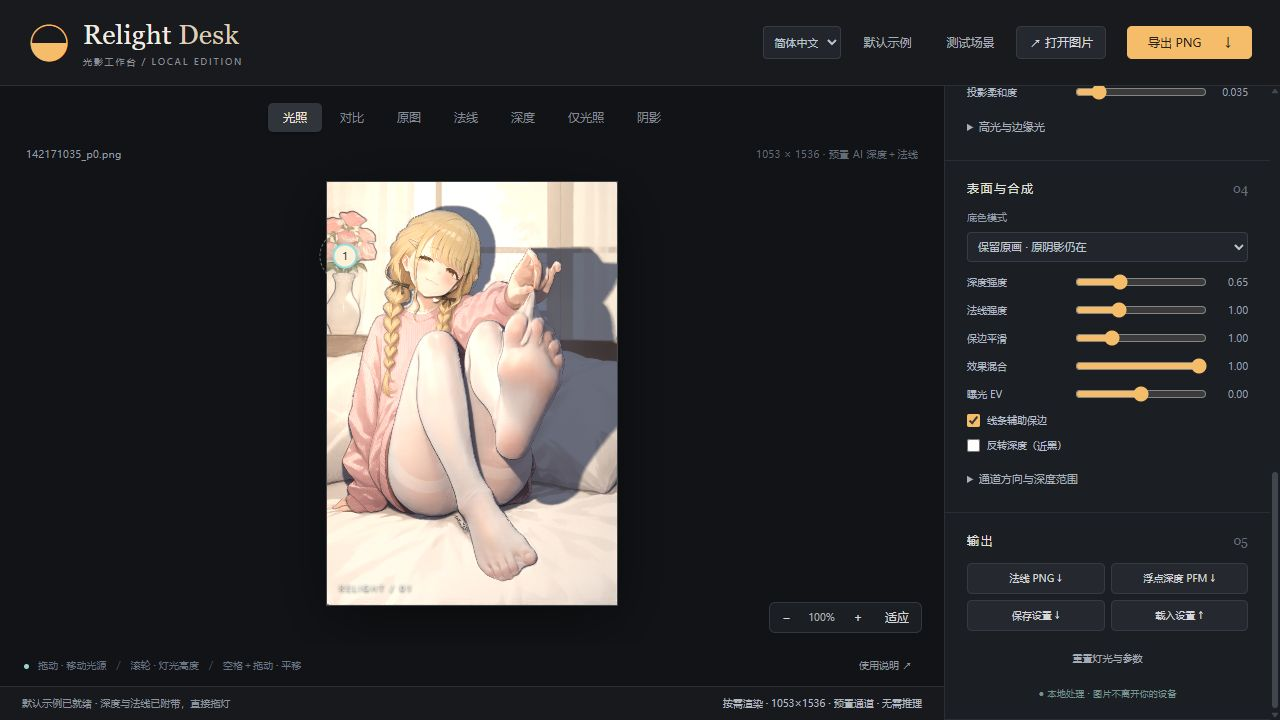
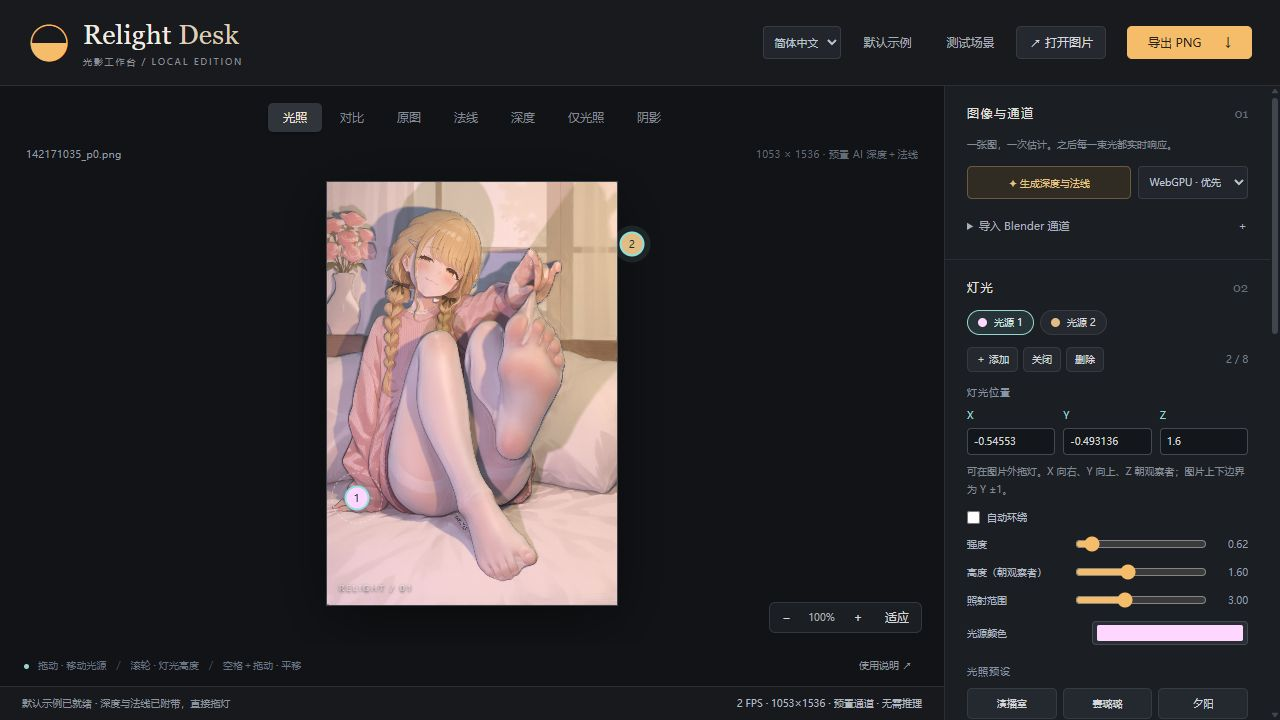
Use owner-tuned dual lights as the illustration defaults

diff --git a/src/main.ts b/src/main.ts
@@ -1,7 +1,7 @@
 import { t, bindStatic, localizedText, getLocale, setLocale, onLocaleChange, lightName, type Locale } from './i18n';
 import './style.css';
 import { createDemo } from './demo';
-import { loadExample } from './example';
+import { loadExample, exampleSettings } from './example';
 import { RelightRenderer } from './renderer';
 import { defaults, makeLight, type Channels, type Light, type Settings, type View } from './types';
 import { clamp, normalizeDepth, lightPositionFromUV } from './math';
@@ -168,7 +168,11 @@ $('add-light').onclick = () => { if (lights.length >= 8) return;selected = Math.
 $('delete-light').onclick = () => { if (lights.length <= 1) return;lights = lights.filter(l => l.id !== selected);selected = lights[0].id;change();sync(); };
 $('toggle-light').onclick = () => { selectedLight().enabled = !selectedLight().enabled;change();sync(); };
 $<HTMLInputElement>('animate').onchange = e => { animate = (e.target as HTMLInputElement).checked;change(); };
-$('reset').onclick = () => { settings = defaults();if (channels.source === 'pending') settings.view = 'original';lights = [makeLight(1)];selected = 1;animate = false;change(true);sync(); };
+$('reset').onclick = () => {
+  const initial = channels.source === 'bundled' ? exampleSettings() : { settings: defaults(), lights: [makeLight(1)] };
+  settings = initial.settings;lights = initial.lights;if (channels.source === 'pending') settings.view = 'original';
+  selected = lights[0].id;animate = false;change(true);sync();
+};
 $('zoom-in').onclick = () => { zoom = Math.min(4, zoom * 1.2);fit(); };$('zoom-out').onclick = () => { zoom = Math.max(.25, zoom / 1.2);fit(); };$('fit').onclick = () => { zoom = 1;pan = { x: 0, y: 0 };fit(); };
 document.addEventListener('keydown', e => { if (e.code === 'Space' && !['INPUT','SELECT','TEXTAREA','BUTTON'].includes((e.target as HTMLElement).tagName)) { space = true;e.preventDefault(); } });
 document.addEventListener('keyup', e => { if (e.code === 'Space') space = false; });
@@ -205,7 +209,7 @@ async function openExample() {
   status(() => t('正在加载默认示例与预置通道…'));
   try {
     const next = await loadExample(controller.signal);if (request !== jobId) return;
-    settings=defaults();lights=[makeLight(1)];selected=1;animate=false;backendLabel=()=>t('预置通道 · 无需推理');
+    const initial=exampleSettings();settings=initial.settings;lights=initial.lights;selected=lights[0].id;animate=false;backendLabel=()=>t('预置通道 · 无需推理');
     loadChannels(next);status(() => t('默认示例已就绪 · 深度与法线已附带，直接拖灯'));
   } catch(error) {
     if (request !== jobId || controller.signal.aborted) return;

diff --git a/tests/example.test.ts b/tests/example.test.ts
@@ -2,12 +2,27 @@ import { describe, it, expect } from 'vitest';
 import { readFileSync } from 'node:fs';
 import { createHash } from 'node:crypto';
 import { RawImage } from '@huggingface/transformers';
-import { decodeExampleDepth, useBakedNormal } from '../src/example';
+import { decodeExampleDepth, useBakedNormal, exampleSettings } from '../src/example';
 import { defaults, type Channels } from '../src/types';
 import manifest from '../public/example/manifest.json';
 
 const asset = (name: string) => readFileSync(`public/example/${name}`);
 describe('bundled illustration', () => {
+  it('restores the owner-authored dual-light settings without rounding positions', () => {
+    const config = exampleSettings();
+    expect(config.lights).toHaveLength(2);
+    expect(config.lights[0]).toMatchObject({ position: [-0.5455302492990204, -0.49313621964097143, 1.6], color: '#fed6ff', intensity: .62, enabled: true });
+    expect(config.lights[1]).toMatchObject({ position: [.7560996786174156, .706441393875396, 1.4], color: '#e1bd84', intensity: 1.17, enabled: true });
+    expect(config.settings.feather).toBe(.117);
+    expect(config.settings.shadows).toBe(true);
+    expect(config).toEqual(JSON.parse(asset('settings.json').toString('utf8')));
+  });
+  it('never mutates stored example settings or generic defaults during editing', () => {
+    const first = exampleSettings();first.lights[0].position[0] = 99;first.settings.feather = .4;first.lights.pop();
+    const restored = exampleSettings();
+    expect(restored.lights).toHaveLength(2);expect(restored.lights[0].position[0]).toBe(-.5455302492990204);
+    expect(restored.settings.feather).toBe(.117);expect(defaults().feather).toBe(.08);
+  });
   it('ships every asset with matching bytes and SHA256', () => {
     for (const [name, expected] of Object.entries(manifest.files)) {
       const bytes = asset(name);

diff --git a/src/example.ts b/src/example.ts
@@ -1,7 +1,13 @@
 import manifest from '../public/example/manifest.json';
-import { readImage, readChannel } from './io';
+import savedSettings from '../public/example/settings.json';
+import { readImage, readChannel, parseSettings } from './io';
 import { t } from './i18n';
 import type { Channels, Settings } from './types';
+
+// Parse afresh: editing a light's nested position array must not change the defaults.
+export function exampleSettings() {
+  return parseSettings(JSON.stringify(savedSettings));
+}
 
 export function decodeExampleDepth(buffer: ArrayBuffer, width: number, height: number) {
   if (buffer.byteLength !== width * height * 4) throw new Error(t('示例深度文件尺寸不匹配。'));

diff --git a/verification/DEFAULT-EXAMPLE.md b/verification/DEFAULT-EXAMPLE.md
@@ -16,3 +16,12 @@ Verified on Windows, 2026-10-11. Source supplied by the project maintainer: `142
 The bake script clones the image before model preprocessing, which converts its input from RGBA to RGB in place. This avoids corrupting later edge-aware filtering. The normal integrity test covers the whole image to catch truncated/black lower rows.
 
 These are estimated illustration passes, not Blender ground truth. No new performance benchmark or claim of parity with the reference video is made. Artwork authorship/redistribution permission has not been independently verified; see `THIRD_PARTY_NOTICES.md`.
+
+## Maintainer-authored default lighting (2026-10-11)
+
+- Captured the live page's **Save settings** export before changing or refreshing anything. Stored its complete version-1 settings and both lights in `public/example/settings.json`, preserving full position precision.
+- The pink-purple fill (`#fed6ff`, intensity 0.62) and warm key (`#e1bd84`, intensity 1.17), plus feather 0.117 and all other parameters, now apply when the example opens or its lighting is reset. Generic defaults remain unchanged.
+- **34/34 tests passed**, including exact default values and isolation from subsequent edits; production build passed.
+- Verified a separate production tab, leaving the original adjusted tab intact. Fresh startup and refresh showed both lights. Changed light X to 2, pressed Reset, exported settings: parsed JSON matched the original captured settings exactly.
+- Compared the original adjusted PNG export and the fresh-default PNG export at 1053×1536: **0 changed RGBA channels, maximum error 0/255**. Browser warning/error log was empty.
+- Updated `default-example.png` to the verified dual-light default.

diff --git a/README.md b/README.md
@@ -63,6 +63,7 @@ npm start
 - 深度由本地 Depth Anything V2 Small FP32 预计算，`depth.f32` 为小端 Float32、从上到下、0—1 近白的相对深度；`depth-preview.png` 仅用于预览，不参与投影计算。
 - 法线从浮点深度保边平滑后派生，RGB 解码为 `RGB × 2 − 1`，X 向右、Y 向上、Z 朝观察者。更改深度强度、平滑或反转后，会即时重新派生法线，不会重新运行 AI。
 - 初始打开只读取已附带通道，不请求模型。只体验示例可运行 `npm start -- --demo-only`，连模型下载也跳过；上传其他图片并生成深度时仍需要模型。
+- 示例专属灯光保存在 `public/example/settings.json`：维护者手动调整的粉紫补光＋暖色主光及完整渲染参数。首次打开、点击「默认示例」、在该示例上重置灯光时均恢复这套设置；其他图片和测试场景不受影响。
 - `manifest.json` 记录模型版本、尺寸、生成参数及文件 SHA-256；维护者可用 `node scripts/bake-example.mjs "图片路径.png"` 重生成通道（需要先准备本地模型）。
 - 插画不是本项目原创素材，不因随仓库分发而获得新的许可；再分发或商用前请自行确认原作者授权，见 [第三方说明](THIRD_PARTY_NOTICES.md)。
 

diff --git a/README.en.md b/README.en.md
@@ -30,6 +30,8 @@ The default illustration ships with precomputed AI depth and normals: drag a lig
 
 Opening the example does not request model weights. Use `npm start -- --demo-only` to skip downloading weights as well. Other images still require the model or imported passes. The manifest records hashes and bake settings. Maintainers can regenerate with `node scripts/bake-example.mjs "source.png"` after preparing the local model.
 
+`public/example/settings.json` stores the maintainer-tuned pink-purple fill, warm key light and complete render settings. Opening/restoring the default example or resetting its lights restores this configuration; other images and the procedural test scene keep their generic defaults.
+
 The illustration was supplied by the project maintainer; no new artwork license is granted by its inclusion. Check the original rights holder's permission before redistribution or commercial use. See [third-party notices](THIRD_PARTY_NOTICES.md).
 
 ## Model management
